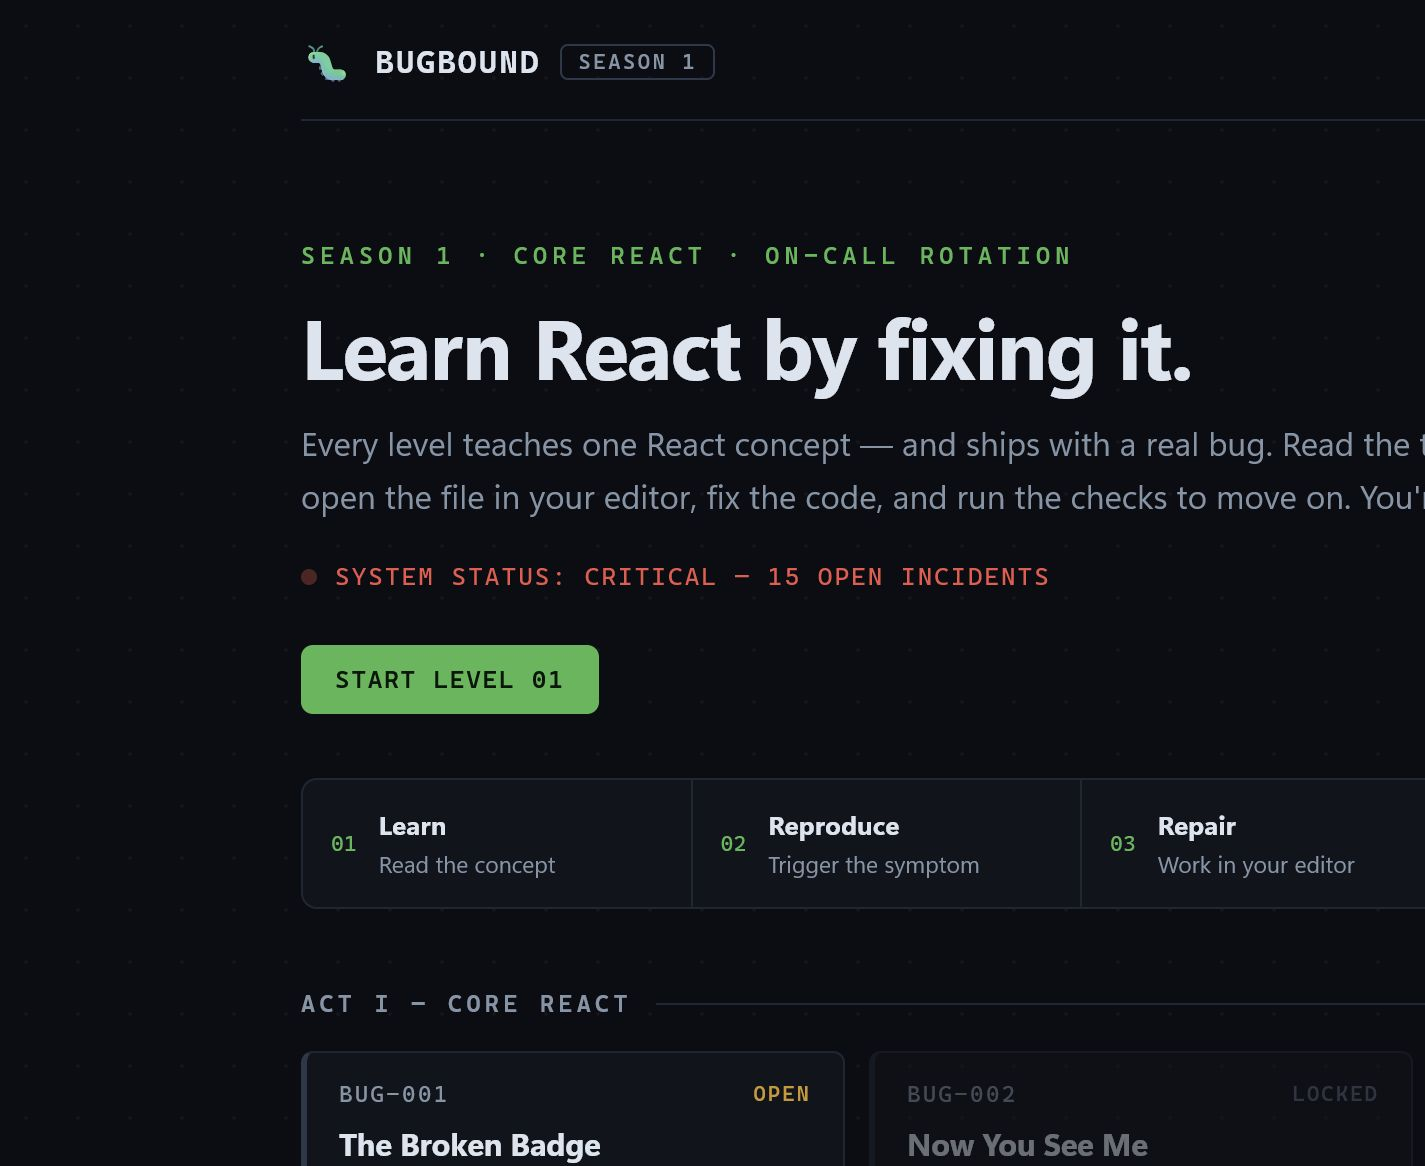
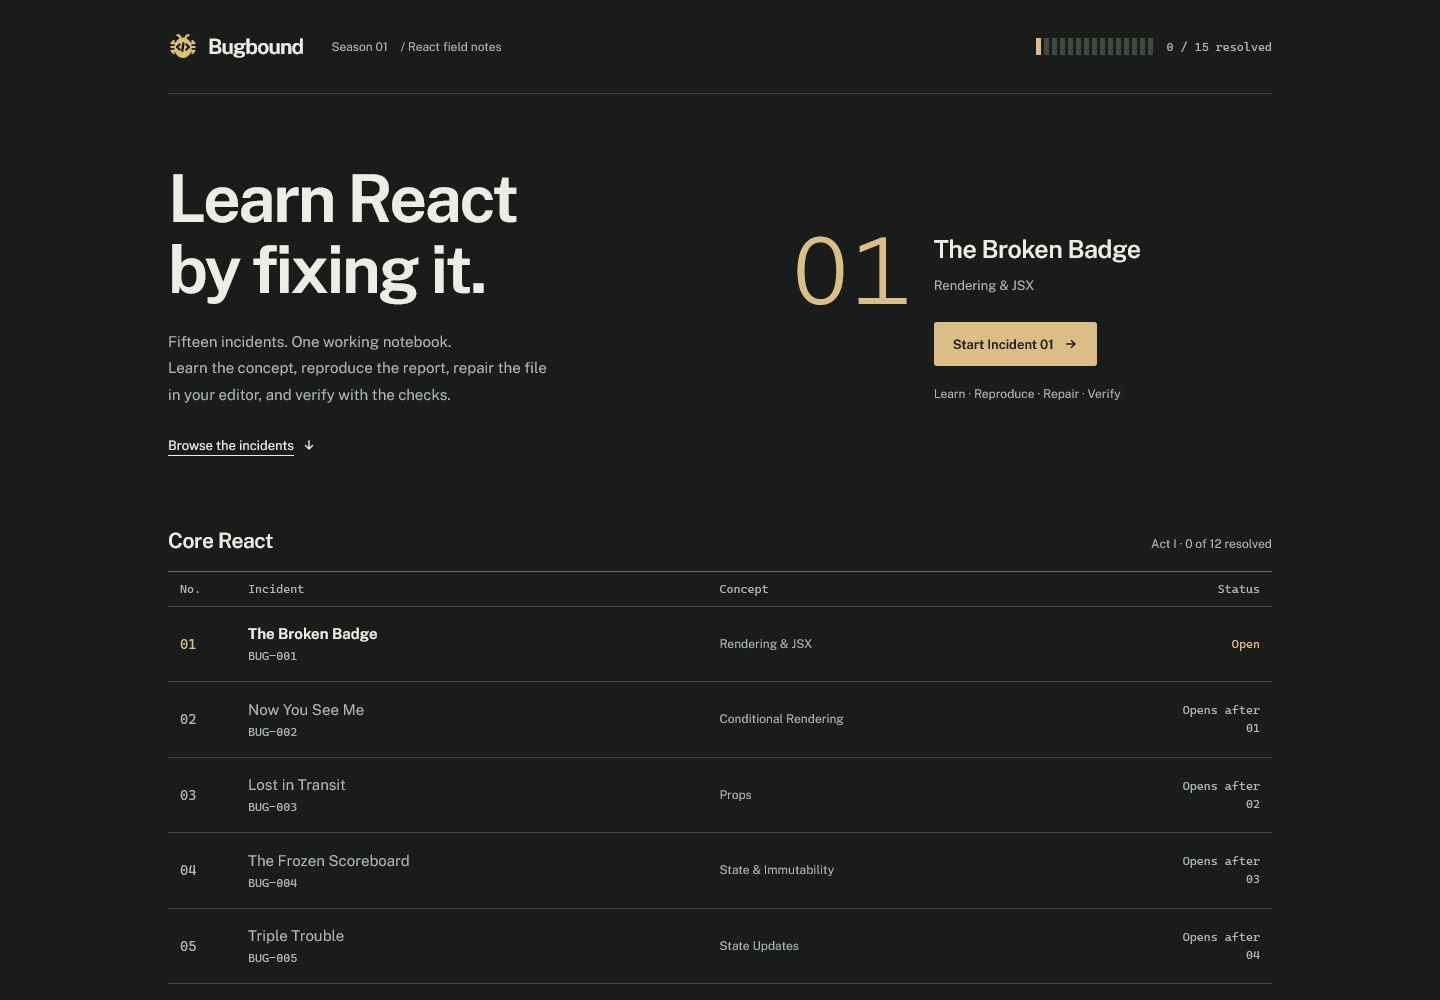
Close Season 1's remaining open items
- The concept sits in a section named by a hidden "Concept" heading, the
  workbench is a "Verification controls" region, and the hints heading has
  a hidden "Hints:" prefix, so heading and landmark navigation reach them.
- Section jumps read as controls: text color with a quiet underline.
- "Start here" stops pointing at the concept once it has been opened.
- Reset progress appears only once something is resolved; after clearing,
  focus goes to the register's title.
- The preview crash says saving retries on its own, with Retry now.
- Restart preview answers with a timed "Restarted" status.
- DESIGN.md records these and fixes its Next drift (Next also shows during
  a run, outlined while Run checks again is amber).
- docs/bugbound-season-1.jpg now shows the redesigned register.

diff --git a/src/shell/LevelPage.jsx b/src/shell/LevelPage.jsx
@@ -10,6 +10,8 @@ import FileReference from './FileReference.jsx';
 import Arrow from './Arrow.jsx';
 import HintBox from './HintBox.jsx';
 
+const restartClock = new Intl.DateTimeFormat(undefined, { hour: 'numeric', minute: '2-digit', second: '2-digit' });
+
 function jumpToSection(id) {
   const target = document.getElementById(id);
   if (target instanceof HTMLDetailsElement) target.open = true;
@@ -21,6 +23,7 @@ function jumpToSection(id) {
 
 export default function LevelPage({ level, isComplete, isSaved = isComplete, onComplete }) {
   const [demoKey, setDemoKey] = useState(0);
+  const [restartedAt, setRestartedAt] = useState(null);
   const next = levels.find((item) => item.number === level.number + 1);
   const telemetry = useSyncExternalStore(subscribeLearning, getLearningSnapshot).levels;
   const activity = activityFor(telemetry, level.id);
@@ -28,6 +31,9 @@ export default function LevelPage({ level, isComplete, isSaved = isComplete, onC
   // Nothing recorded anywhere yet: orient a brand-new learner. Fixed for the visit so the
   // page never shifts under the learner's first action.
   const [firstVisit] = useState(() => Object.keys(getLearningSnapshot().levels).length === 0 && !isComplete);
+  // "Start here" points at the concept only until the learner has opened it.
+  const [conceptOpened, setConceptOpened] = useState(false);
+  const suggestConcept = firstVisit && !conceptOpened;
   // Each surface has one job: the preview note covers the preview, the log covers verifying.
   const previewNote = isComplete
     ? 'This preview shows the source as it is now. It hot-reloads as you edit.'
@@ -67,17 +73,24 @@ export default function LevelPage({ level, isComplete, isSaved = isComplete, onC
           </div>
         </section>
 
-        <details className={`concept-entry${firstVisit ? ' is-suggested' : ''}`} id="concept">
-          <summary><span>{firstVisit ? 'Start here: read the concept' : 'Read the concept'}</span><span className="concept-topic">{level.concept}</span></summary>
-          <div className="concept-content"><Prose paragraphs={level.lesson} /></div>
-        </details>
+        <section className="concept-section" aria-labelledby="concept-heading">
+          <h2 id="concept-heading" className="sr-only">Concept</h2>
+          <details className={`concept-entry${suggestConcept ? ' is-suggested' : ''}`} id="concept" onToggle={(event) => { if (event.currentTarget.open) setConceptOpened(true); }}>
+            <summary><span>{suggestConcept ? 'Start here: read the concept' : 'Read the concept'}</span><span className="concept-topic">{level.concept}</span></summary>
+            <div className="concept-content"><Prose paragraphs={level.lesson} /></div>
+          </details>
+        </section>
 
         <div className="working-area">
           <Workbench level={level} checks={checks} isComplete={isComplete} next={next} />
           <section className="preview-entry" aria-labelledby="live-preview">
             <div className="section-heading">
               <h2 id="live-preview" className="jump-target" tabIndex={-1}>Live preview</h2>
-              <button className="quiet-button" aria-describedby="preview-restart-note" onClick={() => setDemoKey((key) => key + 1)}>Restart preview</button>
+              <span className="preview-restart">
+                {/* Always mounted so the first restart is announced; seconds tell repeat restarts apart. */}
+                <span className="restart-status" role="status">{restartedAt ? `Restarted ${restartClock.format(restartedAt)}` : ''}</span>
+                <button className="quiet-button" aria-describedby="preview-restart-note" onClick={() => { setDemoKey((key) => key + 1); setRestartedAt(Date.now()); }}>Restart preview</button>
+              </span>
             </div>
             <p className="section-note">{previewNote}</p>
             <div className="demo-stage"><ExercisePreview key={demoKey} level={level} /></div>

diff --git a/src/styles/shell.css b/src/styles/shell.css
@@ -165,11 +165,11 @@ a.incident-row:focus-visible { outline-offset: -2px; }
 .first-visit { max-width: 60ch; margin-top: 12px; color: var(--muted); font-size: 13px; }
 .first-visit strong { color: var(--text); font-weight: 600; }
 .section-nav { display: flex; flex-wrap: wrap; gap: 4px 28px; border-bottom: 1px solid var(--border); padding-bottom: 10px; margin-bottom: 32px; }
-.section-nav button { display: inline-flex; align-items: center; min-height: 44px; border: 0; padding: 0; background: none; font-size: 12px; color: var(--muted); text-align: left; text-underline-offset: 5px; }
-.section-nav button:hover { color: var(--accent); text-decoration: underline; }
+.section-nav button { display: inline-flex; align-items: center; min-height: 44px; border: 0; padding: 0; background: none; font-size: 13px; color: var(--text); text-align: left; text-decoration: underline; text-decoration-color: var(--border-strong); text-underline-offset: 5px; }
+.section-nav button:hover { color: var(--accent); text-decoration-color: currentColor; }
 .notebook-layout { display: grid; grid-template-columns: minmax(0, 1fr) minmax(0, 1.1fr); grid-template-rows: auto auto auto 1fr; column-gap: 64px; row-gap: 28px; grid-template-areas: 'brief work' 'concept work' 'notes work' 'hints work'; align-items: start; }
 .incident-brief { grid-area: brief; }
-.concept-entry { grid-area: concept; }
+.concept-section { grid-area: concept; }
 .working-area { grid-area: work; align-self: stretch; min-width: 0; }
 .field-notes { grid-area: notes; min-width: 0; }
 .hint-entry { grid-area: hints; min-width: 0; }
@@ -210,6 +210,9 @@ a.incident-row:focus-visible { outline-offset: -2px; }
 .demo-crash { color: var(--err); }
 .demo-crash strong { display: block; font-size: 15px; margin-bottom: 12px; font-weight: 600; }
 .demo-crash pre { font: 12px/1.8 var(--font-mono); margin: 0 0 18px; }
+.demo-crash-note { margin-bottom: 12px; color: var(--muted); font-size: 13px; }
+.preview-restart { display: inline-flex; align-items: center; gap: 12px; }
+.restart-status { color: var(--muted); font: 12px var(--font-mono); font-variant-numeric: tabular-nums; }
 .checks-entry { margin-top: 32px; padding-top: 24px; border-top: 1px solid var(--border); }
 .checks-idle { margin-top: 16px; }
 .restart-note { margin: 12px 0 0; }

diff --git a/src/shell/App.jsx b/src/shell/App.jsx
@@ -55,6 +55,7 @@ function ResetControl({ onReset }) {
 export default function App() {
   const route = useHashRoute();
   const [progress, setProgress] = useState(() => loadProgress(levelIds));
+  const focusAfterReset = useRef(false);
   const { completed } = progress;
   const completedCount = levels.filter((level) => completed.has(level.id)).length;
   const currentLevel = levels.find((level) => !completed.has(level.id) && isUnlocked(level, completed, levels));
@@ -94,9 +95,17 @@ export default function App() {
       setProgress(previous => ({ ...previous, error: result.error, errorAction: 'reset' }));
       return;
     }
+    focusAfterReset.current = true;
     setProgress(result.progress);
     navigate('/');
   };
+
+  // The reset control leaves with the progress it cleared, so focus goes to the register's title.
+  useEffect(() => {
+    if (!focusAfterReset.current) return;
+    focusAfterReset.current = false;
+    document.getElementById('page-title')?.focus({ preventScroll: true });
+  }, [progress.generation]);
 
   const levelId = route.startsWith('#/level/') ? route.slice('#/level/'.length) : null;
   const activeLevel = levelId ? levels.find((l) => l.id === levelId) : null;
@@ -182,7 +191,8 @@ export default function App() {
 
       <footer className="app-footer">
         <span>Bugbound / Season 01<br /><span className="footer-credit">React + Vite · Incidents &amp; bugs by Claude</span></span>
-        <ResetControl onReset={resetProgress} />
+        {/* Nothing to clear at 0 resolved; a failed reset retries from the storage notice. */}
+        {completedCount > 0 && <ResetControl onReset={resetProgress} />}
       </footer>
     </div>
   );

diff --git a/src/shell/HintBox.jsx b/src/shell/HintBox.jsx
@@ -37,7 +37,7 @@ export default function HintBox({ levelId, openedBefore = [] }) {
 
   return (
     <section className="hint-entry" aria-labelledby="hints">
-      <h2 id="hints" className="jump-target" tabIndex={-1}>A little help, when you need it.</h2>
+      <h2 id="hints" className="jump-target" tabIndex={-1}><span className="sr-only">Hints: </span>A little help, when you need it.</h2>
       <p className="hints-note">
         Start with a nudge. Each hint reveals a little more; open only as much as you need.
       </p>

diff --git a/src/shell/ErrorBoundary.jsx b/src/shell/ErrorBoundary.jsx
@@ -23,8 +23,9 @@ export default class ErrorBoundary extends Component {
             <strong>The component crashed</strong>
             <pre>{String(this.state.error?.message || this.state.error)}</pre>
           </div>
+          <p className="demo-crash-note">Saving the source retries on its own.</p>
           <button className="btn" onClick={() => this.retry()}>
-            Retry after editing
+            Retry now
           </button>
         </div>
       );

diff --git a/src/shell/ChecksRunner.jsx b/src/shell/ChecksRunner.jsx
@@ -125,7 +125,7 @@ export function Workbench({ level, checks, isComplete, next }) {
   const runIsNext = !isComplete || Boolean(checks.results && !passing);
 
   return (
-    <div className="workbench">
+    <div className="workbench" role="region" aria-label="Verification controls">
       <p className="workbench-status">
         <span className="workbench-label">{status.label}</span>
         {status.jump ? (

diff --git a/DESIGN.md b/DESIGN.md
@@ -480,15 +480,15 @@ The brand mark is the owner-supplied `bugbound-icon.svg`, shown as an image at (
 
 Primary amber buttons carry starting, continuing, and verifying actions; outlined secondary buttons support recovery. Both use the frontmatter button padding and control radius with a minimum height of (44px). Primary hover changes to warm offwhite; outlined hover brightens its border. Disabled buttons use the panel surface, muted text, a subdued border, and the waiting cursor.
 
-Quiet actions such as Restart preview use underlined muted text with a minimum height of (44px). Reset progress uses the related underlined control but changes to the error color on hover.
+Quiet actions such as Restart preview use underlined muted text with a minimum height of (44px). Restart preview answers with a muted monospaced "Restarted" and the time to the second beside it, in a status region that stays mounted so each restart is announced. Reset progress uses the related underlined control but changes to the error color on hover; it appears only once at least one incident is resolved, since there is nothing to clear before that.
 
 Interactive elements use a (2px) amber focus outline offset by (4px); linked register rows bring that outline inside with an offset of (-2px). Color, background, and border transitions last (150ms). Reduced-motion preference removes those transitions.
 
 ### Navigation
 
-The linked wordmark returns to the register. The lesson back link remains a native anchor. Section jumps appear at or below (900px) as native buttons with generous vertical hit areas, muted text at rest, and amber underlined text on hover. A section jump scrolls to and focuses its target without changing the hash route; the concept target opens its native disclosure and focuses its summary, and Run the checks focuses the workbench's Run button.
+The linked wordmark returns to the register. The lesson back link remains a native anchor. Section jumps appear at or below (900px) as native buttons with generous vertical hit areas, in (13px) text color with a quiet strong-border underline at rest so they read as controls rather than captions, and amber with an amber underline on hover. A section jump scrolls to and focuses its target without changing the hash route; the concept target opens its native disclosure and focuses its summary, and Run the checks focuses the workbench's Run button.
 
-A skip link appears on focus. Route changes focus the page title. Jump and record targets (the Live preview, Verification log, and hints headings, the run summary, and the resolution record) show the amber focus outline when they receive focus; the page title and main region do not. Do not replace these interactions with visual-only click targets.
+A skip link appears on focus. Route changes focus the page title. Jump and record targets (the Live preview, Verification log, and hints headings, the run summary, and the resolution record) show the amber focus outline when they receive focus; the page title and main region do not. Do not replace these interactions with visual-only click targets. Every part of the lesson is reachable by heading or landmark: the concept disclosure sits in a section named by a visually hidden "Concept" heading, the workbench is a region labelled "Verification controls", and the hints heading carries a visually hidden "Hints:" prefix.
 
 Section jumps use native buttons that scroll and focus the target without changing the hash route. Incident-to-incident navigation remains links.
 
@@ -504,7 +504,7 @@ Once any incident is resolved or worked on, the pitch gives way to the current i
 
 ### Concept and hint disclosures
 
-The concept is a native `details` element, closed initially. Until anything has been recorded, its summary reads "Start here: read the concept" in amber; it still starts closed, so the learner reads the crash first. Its summary has a minimum height of (56px), a native amber marker, and a muted topic beneath its main label. Opening it reveals continuous prose between thin horizontal rules.
+The concept is a native `details` element, closed initially. Until anything has been recorded, and only until the learner opens it, its summary reads "Start here: read the concept" in amber; once opened it reads "Read the concept" in text color for the rest of the visit; it still starts closed, so the learner reads the crash first. Its summary has a minimum height of (56px), a native amber marker, and a muted topic beneath its main label. Opening it reveals continuous prose between thin horizontal rules.
 
 Hints use full-width buttons with a minimum height of (52px), an explicit tier label, `aria-expanded`, and an associated hidden panel. They begin concealed. The tier name stays visible while a hint is open, followed by "· Hide". A muted monospaced "opened before" mark shows tiers revealed in earlier visits only. The last tier gives the fix away, so the first time it is opened for an incident, whatever order the hints were read in, it shows a short muted warning and a Show the answer control instead of the hint; the toggle reads "· Hide" while the warning is open, Escape dismisses it from the toggle or the warning, nothing is recorded until the learner confirms, and focus returns to the toggle. After that it opens directly, including on later visits. Their appearance remains part of the document, with no side-border card.
 
@@ -528,7 +528,7 @@ Ctrl+Enter (⌘ Enter on a Mac) runs the checks from anywhere in the shell excep
 
 ### Live preview and verification
 
-The preview is the one outlined inset stage, using the frontmatter preview surface, radius, and padding; mobile padding is (16px). Its boundary contains a titled, borderless iframe with the intentionally broken component and any caught crash. The crash heading and message sit in a `role="alert"` region, with the Retry after editing button outside it, so reproducing the crash is announced rather than sight-only; a retry after each hot update announces a crash that is still there. The quiet Restart preview button is connected by `aria-describedby` to the note beneath the stage: restarting reloads the preview, clearing component state and timers while source files and progress stay intact.
+The preview is the one outlined inset stage, using the frontmatter preview surface, radius, and padding; mobile padding is (16px). Its boundary contains a titled, borderless iframe with the intentionally broken component and any caught crash. The crash heading and message sit in a `role="alert"` region, with a muted note that saving the source retries on its own and a Retry now button outside it, so reproducing the crash is announced rather than sight-only; a retry after each hot update announces a crash that is still there. The quiet Restart preview button is connected by `aria-describedby` to the note beneath the stage: restarting reloads the preview, clearing component state and timers while source files and progress stay intact.
 
 The note above the stage follows the incident's state. An open incident asks the learner to reproduce the report. A resolved incident not yet checked this visit says it was resolved earlier and that the preview shows the source as it is now, so a crash on a pristine checkout never contradicts the Resolved label without explanation. After a run it simply says the preview shows the current source.
 
@@ -540,9 +540,9 @@ Resolution is recorded where the work happened, not in a banner above the page. 
 
 Whenever the incident is complete and the current run is not failing, "Make the fix stick." follows in the log: an (18px) heading above a rule, the prompt to explain what React was doing, why the change worked, and which signal helped, and the check names as prompts. It sits beside the record rather than at the foot of the page, so it is read before Next.
 
-Each surface has one job, so nothing restates the loop or the state: the first-visit line gives the whole loop once, the preview note covers only the preview (reproduce the report here; it hot-reloads as you edit), and the log's empty state covers repairing and verifying. On later visits the standing note replaces that empty state: your resolution stands after N runs, and a new run checks the source as it is now and never undoes that record. A later failing run keeps the resolution and says so: Your resolution from that date still stands, and the current source fails N checks. Saved completion is never a claim that current source passes. The Next continuation lives in the workbench whenever the incident is complete and checks are not running.
+Each surface has one job, so nothing restates the loop or the state: the first-visit line gives the whole loop once, the preview note covers only the preview (reproduce the report here; it hot-reloads as you edit), and the log's empty state covers repairing and verifying. On later visits the standing note replaces that empty state: your resolution stands after N runs, and a new run checks the source as it is now and never undoes that record. A later failing run keeps the resolution and says so: Your resolution from that date still stands, and the current source fails N checks. Saved completion is never a claim that current source passes. The Next continuation lives in the workbench whenever the incident is complete, including during a run, outlined while Run checks again is amber.
 
-When a completion write fails, a storage notice above the main content uses the existing error-colored full outline, (20px) padding, and a native retry button. The notice announces its message through status semantics. Retry saving progress and Retry reset identify the failed operation accurately. Reset asks in place rather than through a browser dialog: Reset progress becomes a labelled group with the question (later incidents lock again, Incident 01 stays open, field notes are kept), an error-colored Clear progress, and Cancel. Focus moves to Cancel; Escape or Cancel restores the Reset control and its focus; Clear progress resets and returns to the register. At (600px) and below the question takes its own full-width line in the footer. Retrying an already-confirmed failed reset does not ask again.
+When a completion write fails, a storage notice above the main content uses the existing error-colored full outline, (20px) padding, and a native retry button. The notice announces its message through status semantics. Retry saving progress and Retry reset identify the failed operation accurately. Reset asks in place rather than through a browser dialog: Reset progress becomes a labelled group with the question (later incidents lock again, Incident 01 stays open, field notes are kept), an error-colored Clear progress, and Cancel. Focus moves to Cancel; Escape or Cancel restores the Reset control and its focus; Clear progress resets, returns to the register and focuses its title, and the Reset control leaves with the progress it cleared. At (600px) and below the question takes its own full-width line in the footer. Retrying an already-confirmed failed reset does not ask again.
 
 ### Field notes
 
